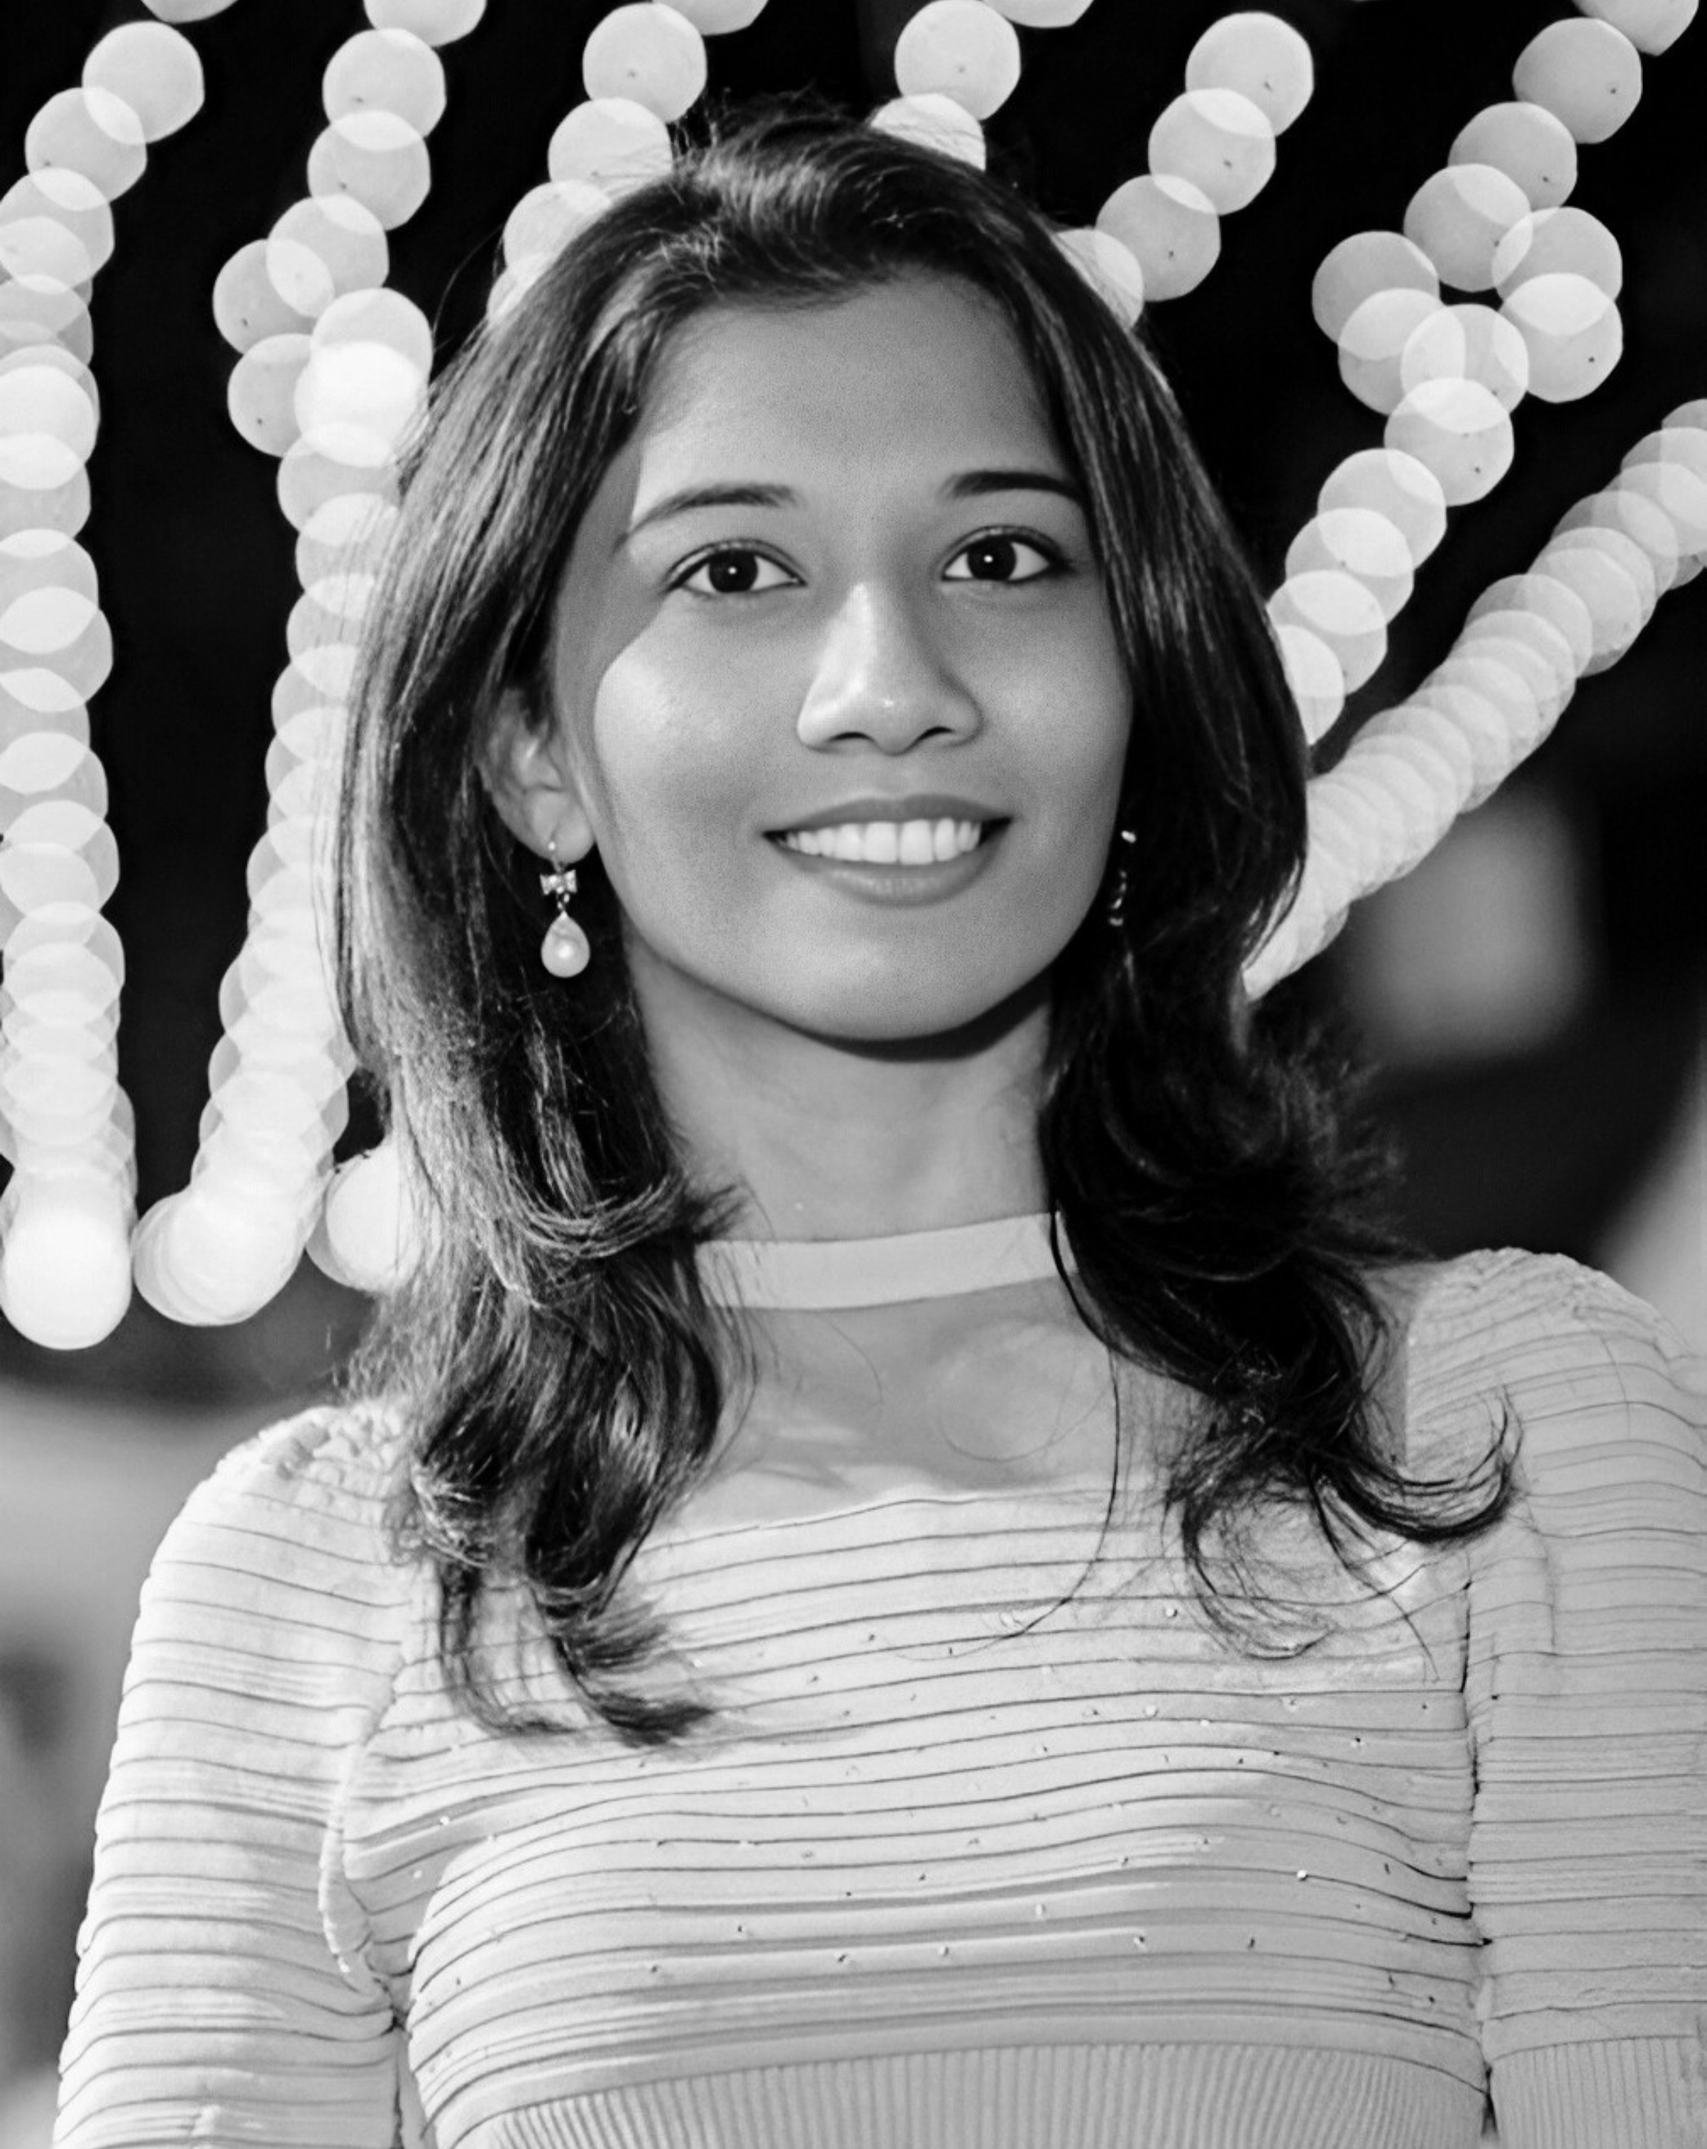
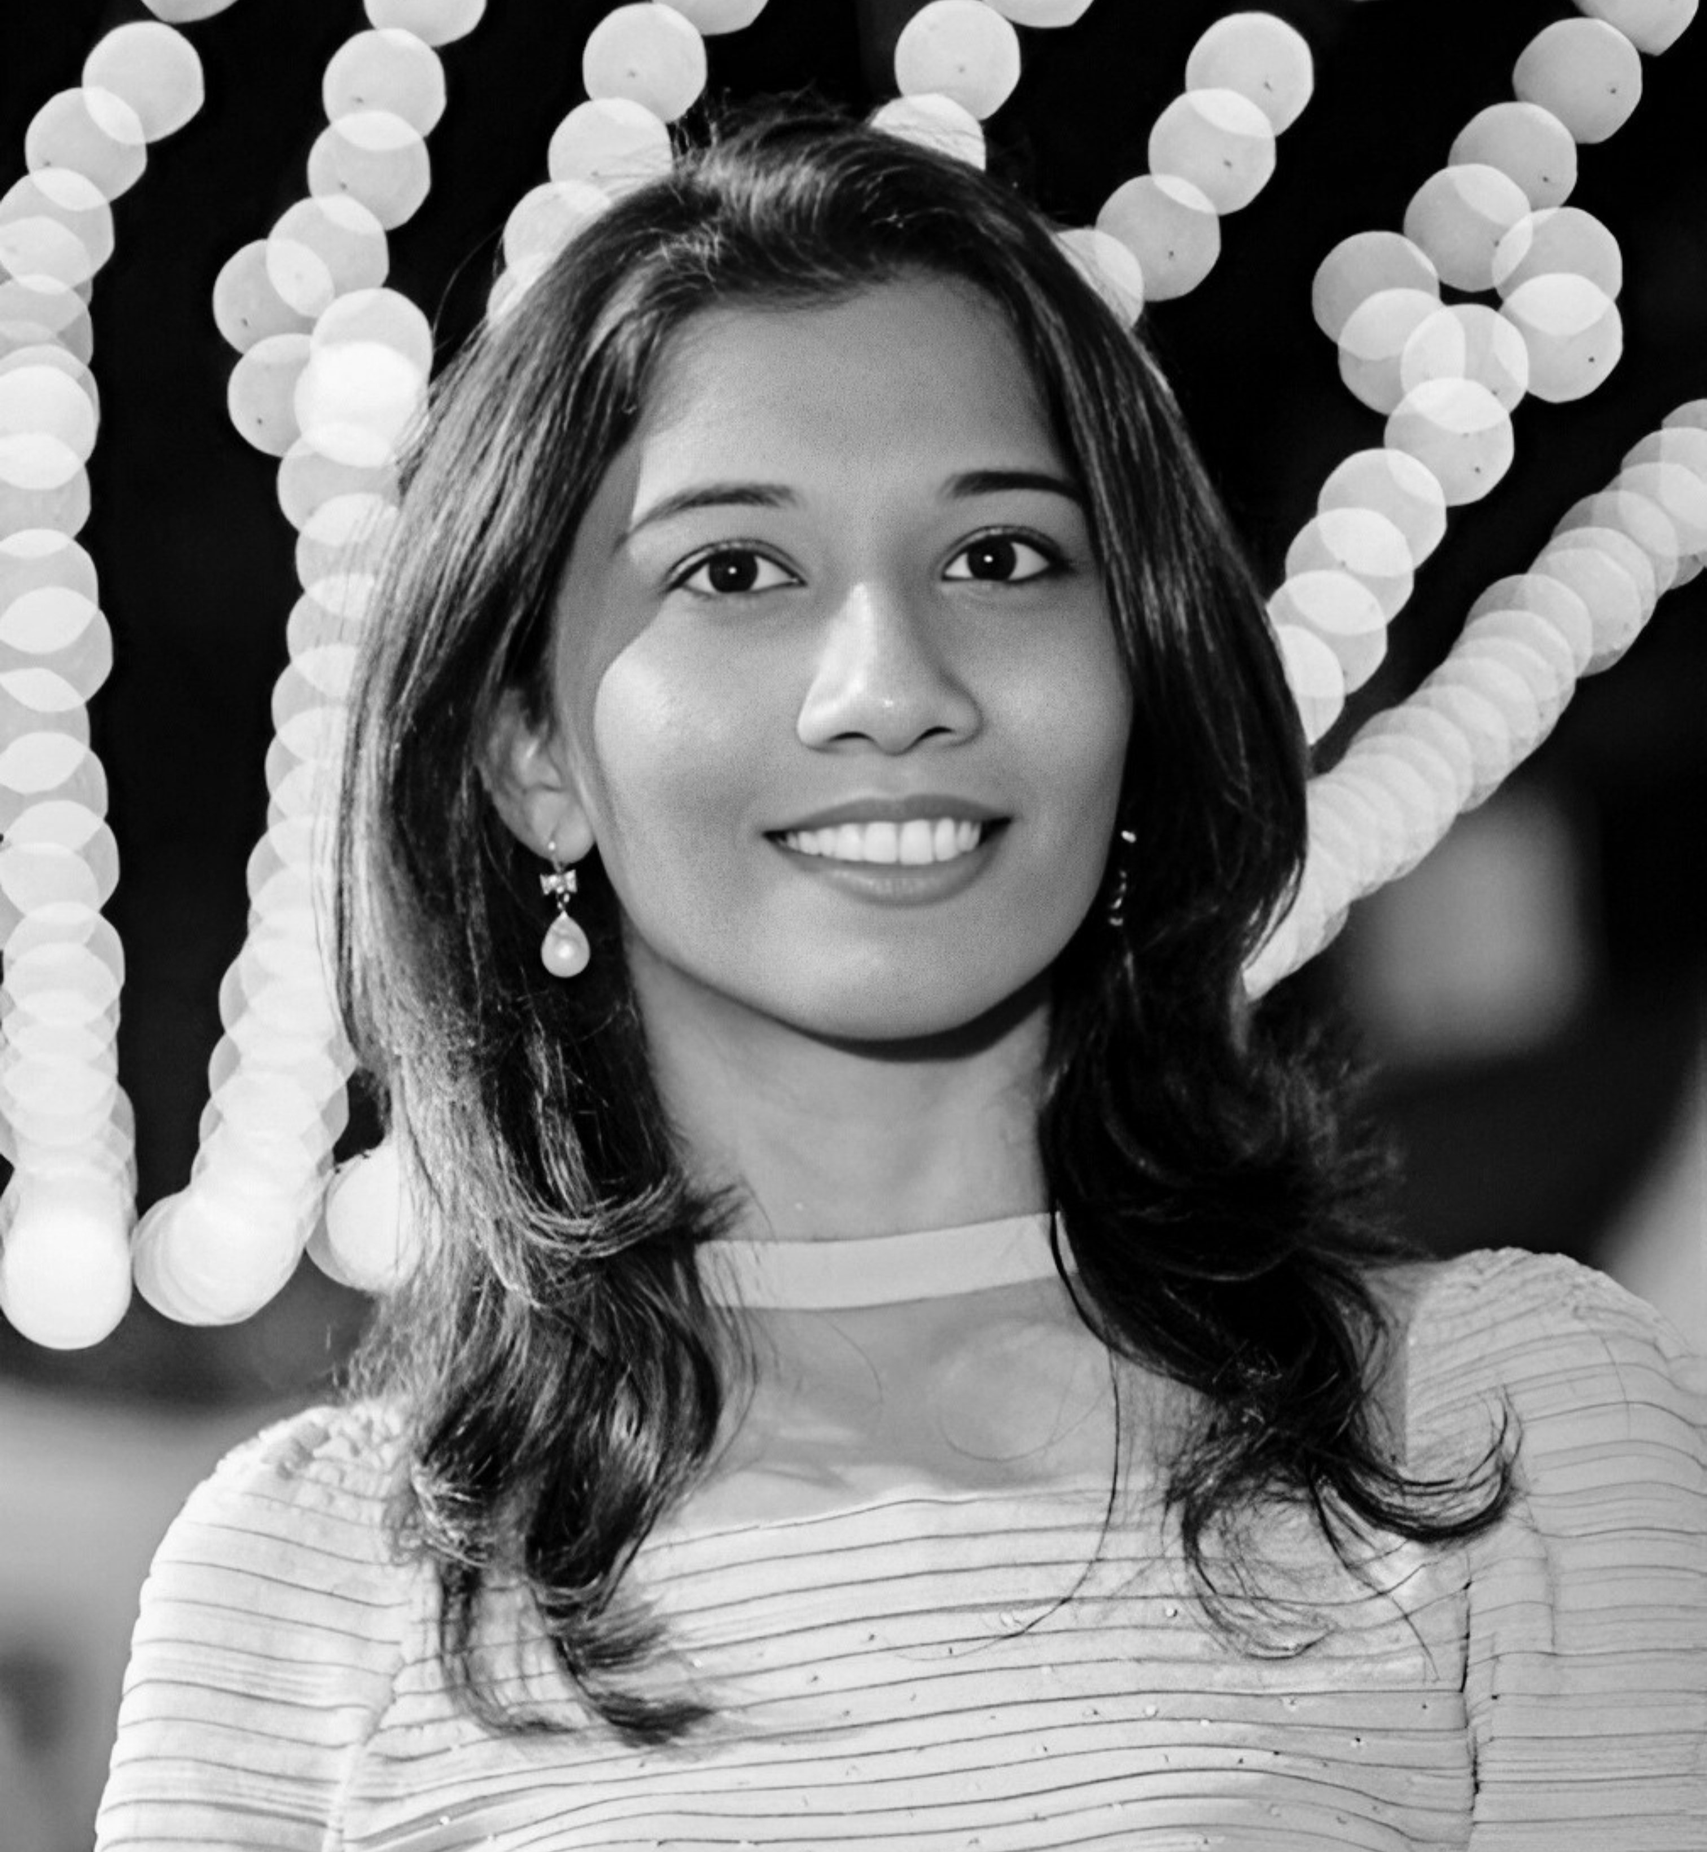
minor changes

diff --git a/service.html b/service.html
@@ -225,9 +225,8 @@
 
                 <div class="col-xl-6 wow fadeIn" data-wow-delay="0.1s">
                     <div class="img-container">
-                        <img src="img/services/commercial.jpg" alt="Sample Image" class="img-fluid" style="height: 400px; width: 600px;">
+                        <img src="img/services/commercial.jpg" alt="Sample Image" class="img-fluid" style="height: 400px; width: 650px;">
                     </div>
-
                 </div>
             </div>
         </div>
@@ -298,7 +297,7 @@
 
                 <div class="col-xl-6 wow fadeIn" data-wow-delay="0.1s">
                     <div class="img-container">
-                        <img src="img/services/turnkey.jpg" alt="Sample Image" class="img-fluid" style="height: 400px; width: 600px;">
+                        <img src="img/services/turnkey.jpg" alt="Sample Image" class="img-fluid" style="height: 400px; width: 650px;">
                     </div>
 
                 </div>
@@ -373,7 +372,7 @@
 
                 <div class="col-xl-6 wow fadeIn" data-wow-delay="0.1s">
                     <div class="img-container">
-                        <img src="img/services/architecture.jpg" alt="Sample Image" class="img-fluid" style="height: 400px; width: 600px;">
+                        <img src="img/services/architecture.jpg" alt="Sample Image" class="img-fluid" style="height: 400px; width: 650px;">
                     </div>
 
                 </div>
@@ -449,7 +448,7 @@
 
                 <div class="col-xl-6 wow fadeIn" data-wow-delay="0.1s">
                     <div class="img-container">
-                        <img src="img/services/estates.jpg" alt="Sample Image" class="img-fluid" style="height: 400px; width: 600px;">
+                        <img src="img/services/estates.jpg" alt="Sample Image" class="img-fluid" style="height: 400px; width: 650px;">
                     </div>
 
                 </div>

diff --git a/index.html b/index.html
@@ -212,12 +212,12 @@
                       "Crafting timeless spaces"
                     </p>
                     <a
-                      class="btn btn-primary py-2 px-3 animated slideInDown"
+                      class="btn btn-primary py-1 px-2 fs-6 text-center animated slideInDown"
                       href="service.html"
                     >
                       Learn More
                       <div
-                        class="d-inline-flex btn-sm-square bg-white text-primary rounded-circle ms-2"
+                        class="d-inline-flex btn-sm-square bg-white text-primary rounded-circle ms-1"
                       >
                         <i class="fa fa-arrow-right text-dark"></i>
                       </div>
@@ -242,12 +242,12 @@
                       "Crafting timeless spaces"
                     </h6>
                     <a
-                      class="btn btn-primary py-2 px-3 animated slideInDown"
+                      class="btn btn-primary py-1 px-2 fs-6 text-center animated slideInDown"
                       href="service.html"
                     >
                       Learn More
                       <div
-                        class="d-inline-flex btn-sm-square bg-white text-primary rounded-circle ms-2"
+                        class="d-inline-flex btn-sm-square bg-white text-primary rounded-circle ms-1"
                       >
                         <i class="fa fa-arrow-right text-dark"></i>
                       </div>

diff --git a/css/style.css b/css/style.css
@@ -111,13 +111,12 @@ html {
   padding: 1rem;
 }
 .our-team-member img {
-  width: 100px;
-  height: 100px;
+  width: 150px;
+  height: 150px;
   object-fit: cover;
   transition: 0.5s;
   border-radius: 50%;
   border: 2px dotted #ffffffbf;
-  padding: 5px;
   margin-bottom: 10px;
 }
 
